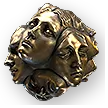
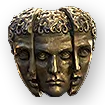
Rebrand to LAMA (Live Auction Market Assessor)
- Rename all user-facing branding from "POE2 Price Overlay" to "LAMA"
- Rename launcher files: POE2 Dashboard.bat → LAMA.bat, .pyw → LAMA.pyw
- Update window title, class name, docstrings, User-Agent strings
- Build output: LAMA.exe, dist/LAMA/, LAMA-Setup-{version}.exe
- Installer: app name, install dir %LOCALAPPDATA%\LAMA, publisher Couloir
- Transfer repo to CouloirGG/lama, update all GitHub API URLs
- Fix chaos/exalted orb icon swap, add Mirror of Kalandra icon
- Fix WM hook 64-bit type mismatch (close button broken on Win64)
- Fix WM hook argtypes preventing hook installation (resize guard)

diff --git a/resources/dashboard.html b/resources/dashboard.html
@@ -3,7 +3,7 @@
 <head>
   <meta charset="UTF-8" />
   <meta name="viewport" content="width=device-width, initial-scale=1.0" />
-  <title>POE2 Price Overlay</title>
+  <title>LAMA</title>
   <style>
     @import url('https://fonts.googleapis.com/css2?family=DM+Sans:wght@400;500;600;700&family=JetBrains+Mono:wght@400;500;600;700&display=swap');
     @keyframes pulse { 0%,100%{opacity:1} 50%{opacity:0.3} }
@@ -487,7 +487,7 @@
       return (
         <div className="window-titlebar pywebview-drag-region" style={{ height: 36 }}>
           <div style={{ fontSize: 13, fontWeight: 700, color: T.gold, textShadow: "0 0 12px rgba(196,164,86,0.3)" }}>
-            POE2 Price Overlay
+            LAMA
           </div>
           <div style={{ display: "flex", alignItems: "center", gap: 6, marginLeft: 10 }}>
             <div style={{
@@ -707,7 +707,7 @@
         <div>
           <div style={{ display: "flex", justifyContent: "space-between", alignItems: "center", padding: "16px 0" }}>
             <div style={{ display: "flex", alignItems: "center", gap: 12 }}>
-              <div style={{ fontSize: 18, fontWeight: 700, color: T.gold, textShadow: "0 0 12px rgba(196,164,86,0.3)" }}>POE2 Price Overlay</div>
+              <div style={{ fontSize: 18, fontWeight: 700, color: T.gold, textShadow: "0 0 12px rgba(196,164,86,0.3)" }}>LAMA</div>
               <div style={{
                 display: "inline-flex", alignItems: "center", gap: 6,
                 background: wsConnected ? "rgba(74,124,89,0.15)" : "rgba(168,50,50,0.1)",
@@ -803,6 +803,7 @@
       divine: "/img/divine_orb.png",
       exalted: "/img/exalted_orb.png",
       chaos: "/img/chaos_orb.png",
+      mirror: "/img/mirror_of_kalandra.png",
     };
 
     function StatusPanel({ status }) {
@@ -824,7 +825,7 @@
             <StatCard label="1 Divine" value={d2e > 0 ? `${d2e.toFixed(0)}` : "--"} sub={d2e > 0 ? "Exalted" : null} color={T.gold} iconLeft={ICON.divine} iconRight={ICON.exalted} tooltip="1 Divine Orb = X Exalted Orbs" />
             <StatCard label="1 Divine" value={d2c > 0 ? `${d2c.toFixed(0)}` : "--"} sub={d2c > 0 ? "Chaos" : null} color={T.gold} iconLeft={ICON.divine} iconRight={ICON.chaos} tooltip="1 Divine Orb = X Chaos Orbs" />
             <StatCard label="1 Exalted" value={e2c > 0 ? `${e2c.toFixed(2)}` : "--"} sub={e2c > 0 ? "Chaos" : null} color={T.amber} iconLeft={ICON.exalted} iconRight={ICON.chaos} tooltip="1 Exalted Orb = X Chaos Orbs" />
-            <StatCard label="1 Mirror" value={m2d > 0 ? `${m2d.toFixed(0)}` : "--"} sub={m2d > 0 ? "Divine" : null} color="#c084fc" iconRight={ICON.divine} tooltip="1 Mirror of Kalandra = X Divine Orbs" />
+            <StatCard label="1 Mirror" value={m2d > 0 ? `${m2d.toFixed(0)}` : "--"} sub={m2d > 0 ? "Divine" : null} color="#c084fc" iconLeft={ICON.mirror} iconRight={ICON.divine} tooltip="1 Mirror of Kalandra = X Divine Orbs" />
             <StatCard label="Last Refresh" value={stats.last_refresh === "never" ? "--" : stats.last_refresh} color={refreshColor} tooltip="When price data was last fetched (refreshes every 15 min)" />
           </div>
           {/* Health stats — compact inline strip */}

diff --git a/src/app.py b/src/app.py
@@ -1,5 +1,5 @@
 """
-app.py — Standalone desktop launcher for POE2 Price Overlay.
+app.py — Standalone desktop launcher for LAMA (Live Auction Market Assessor).
 
 Starts the FastAPI server in a background thread and opens the
 dashboard in a native window (no browser required).
@@ -23,7 +23,7 @@ sys.path.insert(0, os.path.dirname(os.path.abspath(__file__)))
 # Configuration
 # ---------------------------------------------------------------------------
 PORT = int(os.environ.get("POE2_DASHBOARD_PORT", "8450"))
-WINDOW_TITLE = "POE2 Price Overlay"
+WINDOW_TITLE = "LAMA"
 WINDOW_WIDTH = 1100
 WINDOW_HEIGHT = 750
 
@@ -81,7 +81,7 @@ class WindowApi:
     def _install_hook(self):
         """Install a Win32 hook that silently blocks resize during guard periods."""
         import ctypes
-        from ctypes import wintypes, WINFUNCTYPE, POINTER, c_int, c_uint, c_long
+        from ctypes import wintypes, WINFUNCTYPE, POINTER, c_int, c_uint
 
         hwnd = self._get_hwnd()
         if not hwnd or self._original_proc:
@@ -100,9 +100,21 @@ class WindowApi:
                 ("flags", c_uint),
             ]
 
-        WNDPROC = WINFUNCTYPE(c_long, wintypes.HWND, c_uint,
+        # LRESULT is pointer-sized (8 bytes on 64-bit Windows)
+        LRESULT = wintypes.LPARAM
+        WNDPROC = WINFUNCTYPE(LRESULT, wintypes.HWND, c_uint,
                               wintypes.WPARAM, wintypes.LPARAM)
+
         user32 = ctypes.windll.user32
+        # Set restype to pointer-sized int (critical on 64-bit Windows).
+        # Don't set argtypes on SetWindowLongPtrW — it needs to accept
+        # a CFUNCTYPE callback which ctypes can't coerce to c_longlong.
+        user32.SetWindowLongPtrW.restype = LRESULT
+        user32.CallWindowProcW.restype = LRESULT
+        user32.CallWindowProcW.argtypes = [
+            ctypes.c_void_p, wintypes.HWND, c_uint, wintypes.WPARAM, wintypes.LPARAM
+        ]
+
         api_ref = self
 
         @WNDPROC
@@ -192,7 +204,7 @@ def main():
     server_thread.start()
 
     # Wait for it to be ready
-    print(f"Starting POE2 Price Overlay on port {PORT}...")
+    print(f"Starting LAMA on port {PORT}...")
     if not wait_for_server():
         print("ERROR: Server failed to start within 10 seconds.")
         sys.exit(1)

diff --git a/src/main.py b/src/main.py
@@ -1,5 +1,5 @@
 """
-POE2 Price Overlay - Main Application
+LAMA (Live Auction Market Assessor) - Main Application
 Orchestrates all components:
     Cursor Stop → Ctrl+C → Clipboard Parse → Price Lookup → Overlay Display
 
@@ -44,7 +44,7 @@ from bug_reporter import BugReporter
 logger = logging.getLogger("poe2-overlay")
 
 
-class POE2PriceOverlay:
+class LAMA:
     """
     Main application class.
 
@@ -62,7 +62,7 @@ class POE2PriceOverlay:
         self._test_filter_update = test_filter_update
 
         # Initialize components
-        logger.info("Initializing POE2 Price Overlay...")
+        logger.info("Initializing LAMA...")
         logger.info(f"League: {self.league}")
 
         self.price_cache = PriceCache(league=self.league)
@@ -134,7 +134,7 @@ class POE2PriceOverlay:
         Start all components and begin monitoring.
         """
         logger.info("=" * 50)
-        logger.info("  POE2 Price Overlay - Starting")
+        logger.info("  LAMA - Starting")
         logger.info("=" * 50)
 
         self.stats["start_time"] = time.time()
@@ -1180,14 +1180,14 @@ def main():
         ctypes.windll.kernel32.SetConsoleCtrlHandler(None, True)
         # Resize console window — find by title for Windows Terminal compatibility
         user32 = ctypes.windll.user32
-        hwnd = user32.FindWindowW(None, "POE2 Price Overlay")
+        hwnd = user32.FindWindowW(None, "LAMA")
         if hwnd:
             user32.MoveWindow(hwnd, 100, 100, 650, 500, True)
     except Exception:
         pass
 
     parser = argparse.ArgumentParser(
-        description="POE2 Price Overlay - Real-time item pricing",
+        description="LAMA - Live Auction Market Assessor",
         formatter_class=argparse.RawDescriptionHelpFormatter,
         epilog="""
 Examples:
@@ -1227,7 +1227,7 @@ Examples:
     setup_logging(debug=args.debug)
 
     try:
-        app = POE2PriceOverlay(
+        app = LAMA(
             league=args.league,
             use_console=args.console,
             no_filter_update=args.no_filter_update,

diff --git a/src/server.py b/src/server.py
@@ -1,5 +1,5 @@
 """
-server.py — FastAPI backend for POE2 Price Overlay dashboard.
+server.py — FastAPI backend for LAMA dashboard.
 
 Manages the overlay subprocess (main.py), streams logs over WebSocket,
 exposes status/settings APIs, and serves the dashboard HTML.
@@ -424,7 +424,7 @@ async def lifespan(app: FastAPI):
     # Background task: check for updates after a short delay
     update_task = asyncio.create_task(check_for_updates())
 
-    logger.info("POE2 Dashboard server ready")
+    logger.info("LAMA dashboard server ready")
     try:
         yield
     finally:
@@ -436,7 +436,7 @@ async def lifespan(app: FastAPI):
         overlay.stop()
 
 
-app = FastAPI(title="POE2 Dashboard API", lifespan=lifespan)
+app = FastAPI(title="LAMA API", lifespan=lifespan)
 app.add_middleware(
     CORSMiddleware,
     allow_origins=["*"],
@@ -481,7 +481,7 @@ async def check_for_updates():
         loop = asyncio.get_running_loop()
         gh_headers = _get_github_headers()
         resp = await loop.run_in_executor(None, lambda: requests.get(
-            "https://api.github.com/repos/CarbonSMASH/POE2_OCR/releases/latest",
+            "https://api.github.com/repos/CouloirGG/lama/releases/latest",
             timeout=10,
             headers=gh_headers,
         ))
@@ -1149,7 +1149,7 @@ async def apply_update():
     try:
         gh_headers = _get_github_headers()
         resp = await loop.run_in_executor(None, lambda: requests.get(
-            "https://api.github.com/repos/CarbonSMASH/POE2_OCR/releases/latest",
+            "https://api.github.com/repos/CouloirGG/lama/releases/latest",
             timeout=10,
             headers=gh_headers,
         ))
@@ -1292,7 +1292,7 @@ if __name__ == "__main__":
         datefmt="%H:%M:%S",
     )
 
-    logger.info(f"Starting POE2 Dashboard server on port {PORT}")
+    logger.info(f"Starting LAMA dashboard server on port {PORT}")
     uvicorn.run(
         "server:app",
         host="127.0.0.1",

diff --git a/src/diagnose.py b/src/diagnose.py
@@ -1,5 +1,5 @@
 """
-POE2 Price Overlay - Diagnostics
+LAMA - Diagnostics
 Run this WITH POE2 open to test each pipeline step independently.
 Reports exactly where the pipeline is failing.
 
@@ -222,7 +222,7 @@ def test_price_cache():
     try:
         resp = requests.get(poe2_url,
             params={"league": saved_league, "type": "Currency"},
-            timeout=15, headers={"User-Agent": "POE2PriceOverlay/1.0"})
+            timeout=15, headers={"User-Agent": "LAMA/1.0"})
         info(f"POE2 API HTTP status: {resp.status_code}")
 
         if resp.status_code == 200 and resp.content:
@@ -266,7 +266,7 @@ def test_price_cache():
             for test_league in ["Fate of the Vaal", "Standard", "Hardcore"]:
                 r = requests.get(poe2_url,
                     params={"league": test_league, "type": "Currency"},
-                    timeout=10, headers={"User-Agent": "POE2PriceOverlay/1.0"})
+                    timeout=10, headers={"User-Agent": "LAMA/1.0"})
                 if r.status_code == 200 and r.content:
                     d = r.json()
                     n = len(d.get("lines", []))
@@ -347,7 +347,7 @@ def test_overlay():
 def main():
     print()
     print(f"{C.BOLD}╔══════════════════════════════════════════════════════╗{C.END}")
-    print(f"{C.BOLD}║       POE2 Price Overlay — Diagnostic Tool          ║{C.END}")
+    print(f"{C.BOLD}║       LAMA — Diagnostic Tool          ║{C.END}")
     print(f"{C.BOLD}╚══════════════════════════════════════════════════════╝{C.END}")
     print()
     print("  This will test each component of the overlay pipeline.")

diff --git a/src/mod_parser.py b/src/mod_parser.py
@@ -1,5 +1,5 @@
 """
-POE2 Price Overlay - Mod Parser
+LAMA - Mod Parser
 Matches item mod text to trade API stat IDs for rare item pricing.
 
 On startup, fetches stat filter definitions from the POE2 trade API
@@ -268,7 +268,7 @@ class ModParser:
             resp = requests.get(
                 TRADE_ITEMS_URL,
                 timeout=15,
-                headers={"User-Agent": "POE2PriceOverlay/1.0"},
+                headers={"User-Agent": "LAMA/1.0"},
             )
             if resp.status_code != 200:
                 logger.warning(f"ModParser: items API returned HTTP {resp.status_code}")
@@ -333,7 +333,7 @@ class ModParser:
             resp = requests.get(
                 TRADE_STATS_URL,
                 timeout=15,
-                headers={"User-Agent": "POE2PriceOverlay/1.0"},
+                headers={"User-Agent": "LAMA/1.0"},
             )
             if resp.status_code != 200:
                 logger.warning(f"ModParser: trade stats API returned HTTP {resp.status_code}")

diff --git a/src/mod_database.py b/src/mod_database.py
@@ -1,5 +1,5 @@
 """
-POE2 Price Overlay - Mod Database & Scoring Engine
+LAMA - Mod Database & Scoring Engine
 
 Evaluates rare items locally by identifying mod tiers and computing a
 weighted score.  Zero API calls — uses static RePoE data cached on disk.
@@ -764,7 +764,7 @@ class ModDatabase:
         try:
             logger.info(f"ModDatabase: downloading {filename}...")
             resp = requests.get(url, timeout=30,
-                                headers={"User-Agent": "POE2PriceOverlay/1.0"})
+                                headers={"User-Agent": "LAMA/1.0"})
             if resp.status_code != 200:
                 logger.warning(f"ModDatabase: HTTP {resp.status_code} for {url}")
                 # Fall back to stale cache

diff --git a/src/config.py b/src/config.py
@@ -1,5 +1,5 @@
 """
-POE2 Price Overlay - Configuration
+LAMA (Live Auction Market Assessor) - Configuration
 All tunable constants in one place.
 """
 
@@ -232,7 +232,7 @@ CALIBRATION_MIN_RESULTS = 3            # skip thin results (< 3 listings)
 # ─────────────────────────────────────────────
 SHARD_DIR = CACHE_DIR / "shards"
 SHARD_REFRESH_INTERVAL = 86400  # 24 hours
-SHARD_GITHUB_REPO = "CarbonSMASH/POE2_OCR"
+SHARD_GITHUB_REPO = "CouloirGG/lama"
 
 # ─────────────────────────────────────────────
 # Logging

diff --git a/src/trade_client.py b/src/trade_client.py
@@ -1,5 +1,5 @@
 """
-POE2 Price Overlay - Trade API Client
+LAMA - Trade API Client
 Queries the POE2 trade API for rare item pricing based on mod filters.
 
 Pipeline:
@@ -64,7 +64,7 @@ class TradeClient:
         self._divine_to_chaos_fn = divine_to_chaos_fn or (lambda: 68.0)
         self._divine_to_exalted_fn = divine_to_exalted_fn or (lambda: 300.0)
         self._session = requests.Session()
-        self._session.headers.update({"User-Agent": "POE2PriceOverlay/1.0"})
+        self._session.headers.update({"User-Agent": "LAMA/1.0"})
 
         # Rate limiting
         self._last_request_time = 0.0

diff --git a/src/price_cache.py b/src/price_cache.py
@@ -1,5 +1,5 @@
 """
-POE2 Price Overlay - Price Cache
+LAMA - Price Cache
 Fetches item prices from poe2scout.com (primary) and poe.ninja (secondary).
 
 poe2scout provides pre-aggregated prices for 900+ items across all categories
@@ -237,7 +237,7 @@ class PriceCache:
 
     def _fetch_all(self):
         new_prices = {}
-        headers = {"User-Agent": "POE2PriceOverlay/1.0"}
+        headers = {"User-Agent": "LAMA/1.0"}
 
         # 1. Fetch poe.ninja first — we need conversion rates before poe2scout
         self._fetch_poe_ninja(headers, new_prices)

diff --git a/src/screen_capture.py b/src/screen_capture.py
@@ -1,5 +1,5 @@
 """
-POE2 Price Overlay - Cursor Tracking & Game Window Detection
+LAMA - Cursor Tracking & Game Window Detection
 Provides cursor position tracking and POE2 window detection for the
 clipboard-based item detection pipeline.
 """

diff --git a/src/calibration_harvester.py b/src/calibration_harvester.py
@@ -1,5 +1,5 @@
 """
-POE2 Price Overlay - Calibration Harvester
+LAMA - Calibration Harvester
 
 Standalone CLI script that queries the trade API for listed rare items,
 scores them locally using ModDatabase, and records (score, actual_price)
